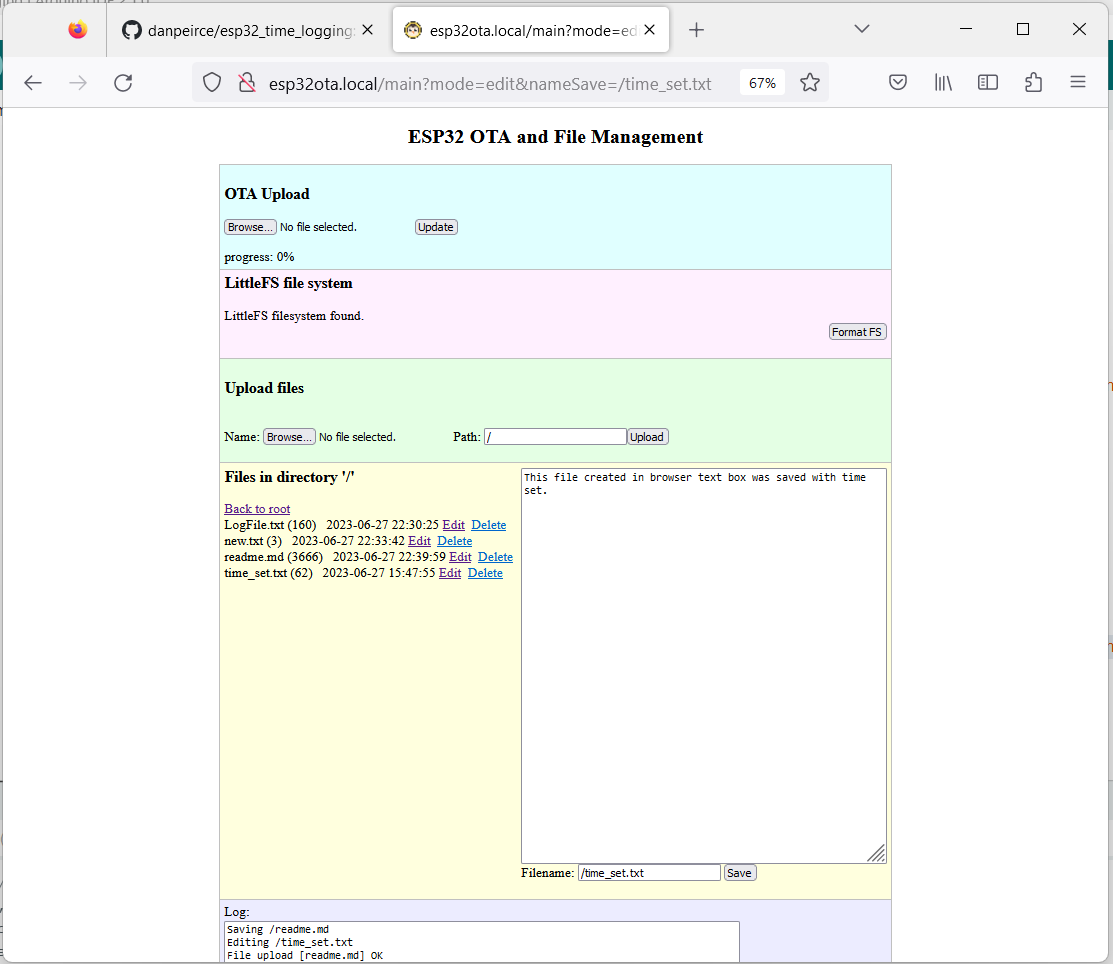
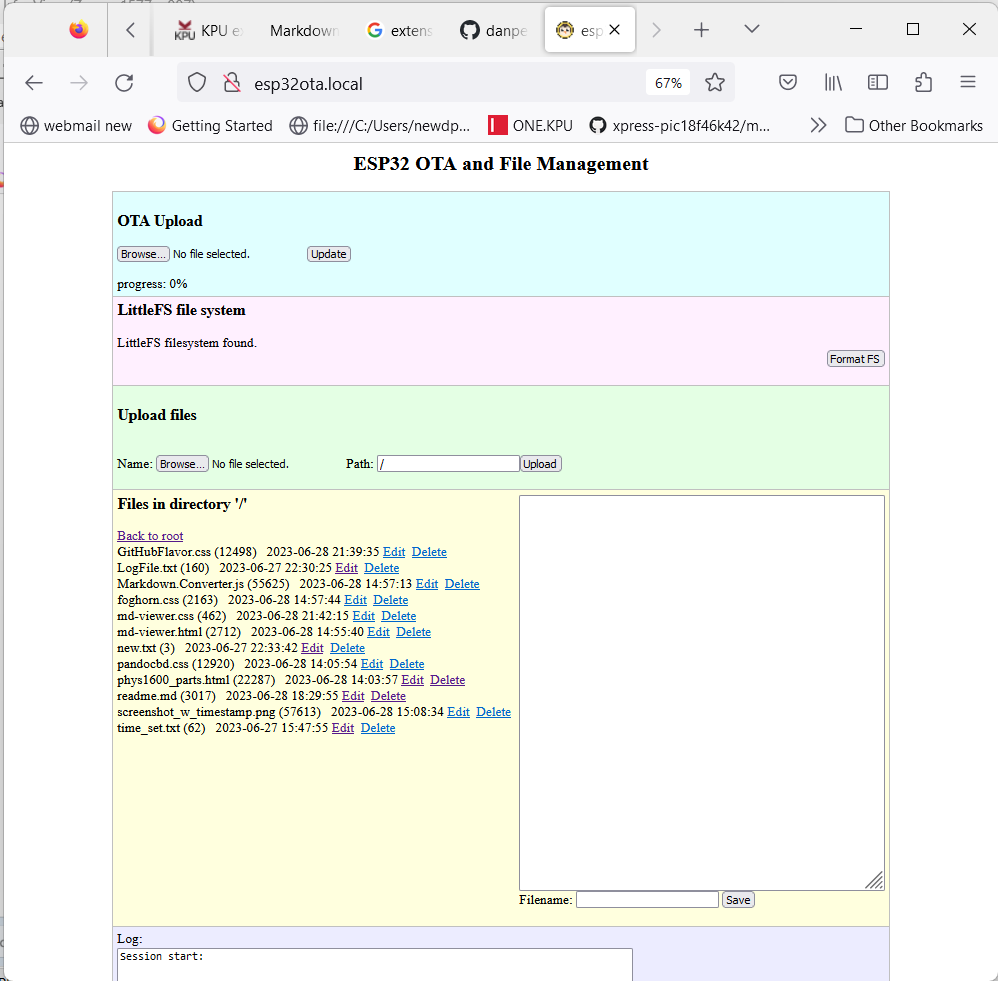
extensible comments

Changed region(s): [[0.0, 0.0, 1.0, 1.0]]

diff --git a/readme.md b/readme.md
@@ -10,14 +10,27 @@ This program provides a web-based interface for
 * File uploding
 * File editing
 * File deletion
-
-It may be accessed via from a web browser by its IP address or via http://ESP32OTA.local
+* Also, extensible as a result of the web server and local file system.
+    * OTA and File System Management may be accessed from a web browser by its IP address or via http://ESP32OTA.local
+    * Loaded files can be accessed from a web browser via http://ESP32OTA.local/*fileName*
+	    * The local file can be an html file (possibly having associated CSS files and javascript files)
+        * example see https://github.com/danpeirce/md-viewer#using-md-viewer		
 
 The program sets the real time clock in the ESP32 using web provided NTP servers. A timestamp in the file system is updated every time a file is saved. 
 
 ### Example Screenshot
 
+http://ESP32OTA.local
+
 ![](img/screenshot_w_timestamp.png)
+
+http://esp32ota.local/phys1600_parts.html#phys1600-parts-main-box
+
+![](img/screenshot_phys1600_parts.png)
+
+http://esp32ota.local/md-viewer.html
+
+![](img/screenshot_md_viewer.png)
 
 ## Limitations:
 
@@ -31,9 +44,6 @@ The program sets the real time clock in the ESP32 using web provided NTP servers
 * Tested on ESP32-DOWD (WROOM and WROVER) and ESP32-S3 (WROOM).
     * This fork tested on ESP32-S2 DEVKIT 
 
-## To Do
-
-* Add VFS/FATFS support
 
 ## How to Use This Code:
 
@@ -50,11 +60,4 @@ The program sets the real time clock in the ESP32 using web provided NTP servers
 * Access the http://ESP32OTA.local URL from your host machine.
 * Perform file functions (format, load, edit, delete) and upload other programs (OTA) on the ESP32
 
-## Reason for This Fork
 
-The original code is useful and working; however, I am not comfortable with variable and function definitions 
-being located n header files. The header files are now rewritten to contain function declarations and variable declarations. New \*.ino files 
-have been created to contain function definitions and variable definitions. The Arduino IDE concatenates the additional \*.ino files at the end of 
-the project \*.ino file as preprocessing before compiling.
-
-Decided to add WiFi Manager to avoid hard coding SSID credentials.
